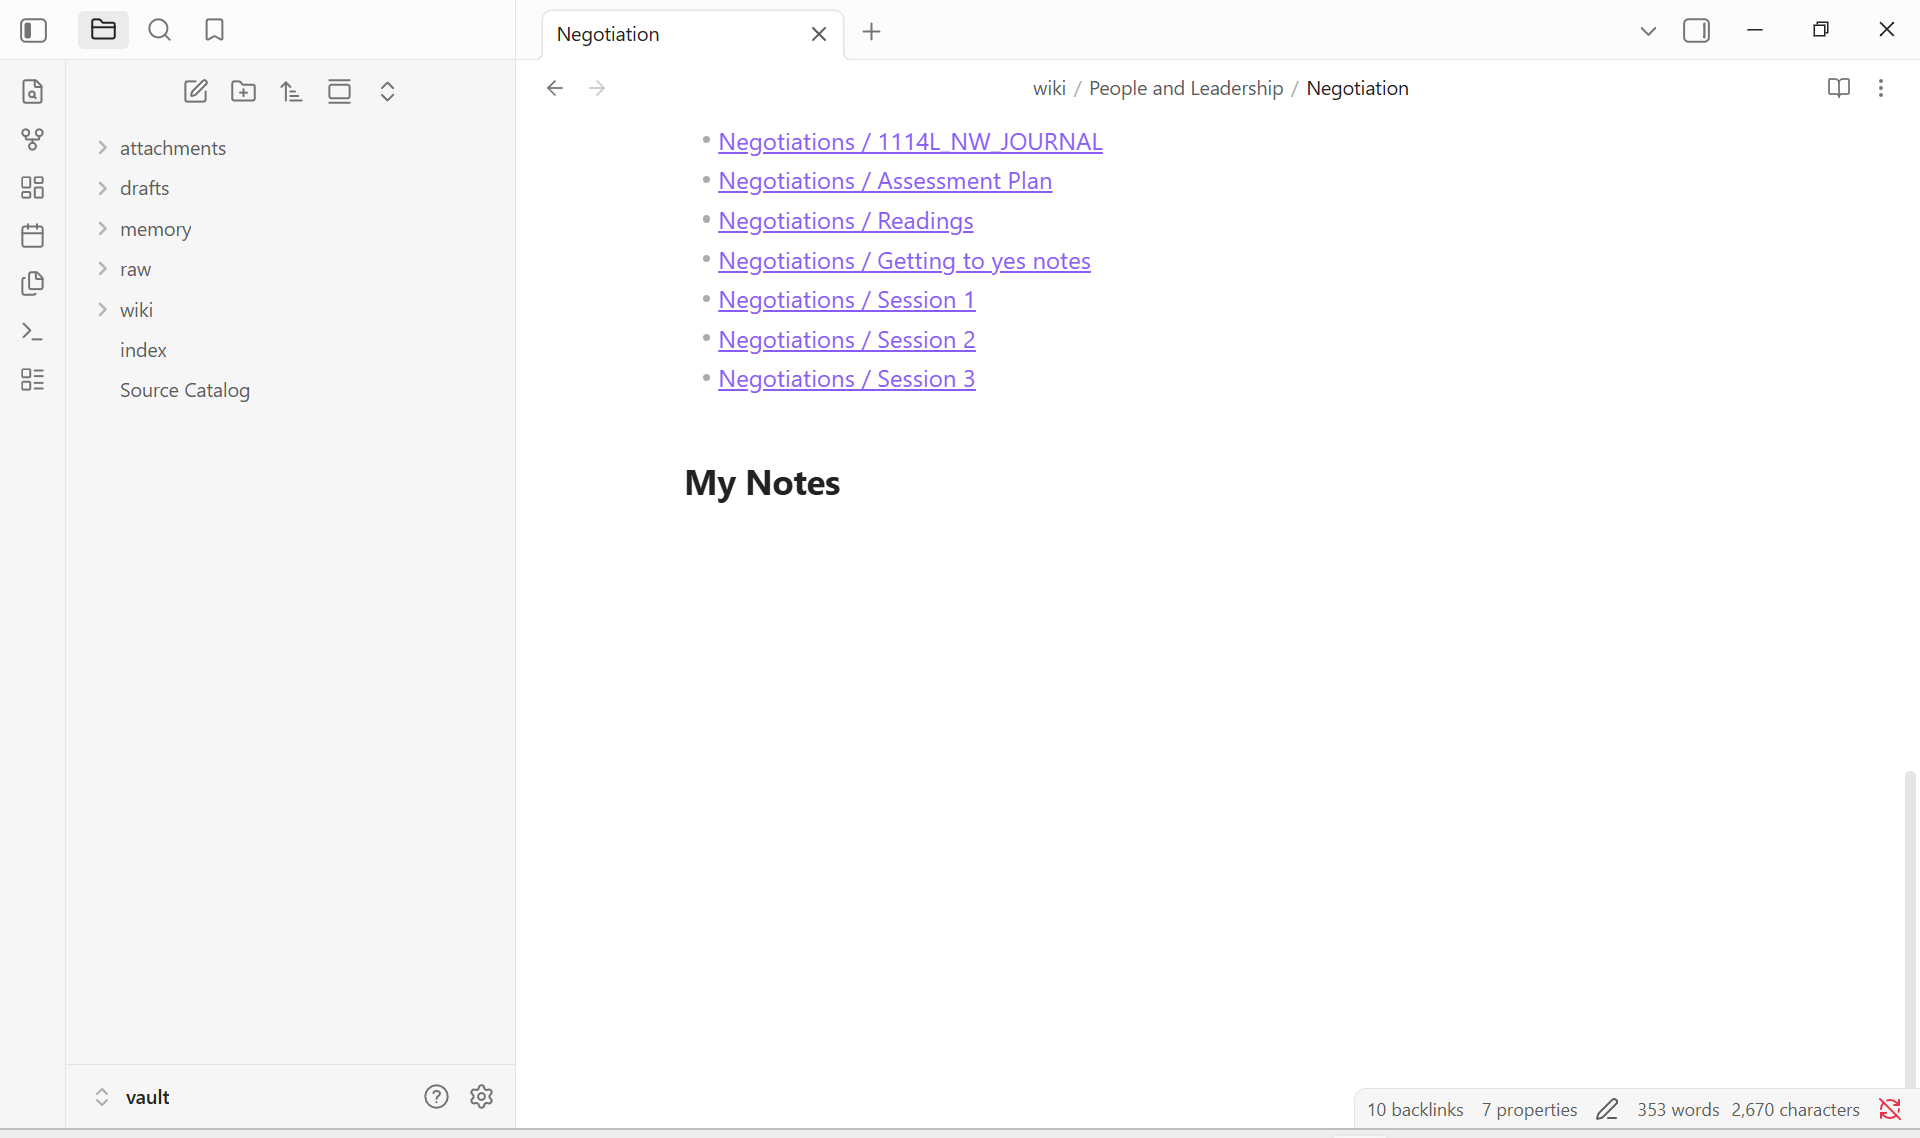
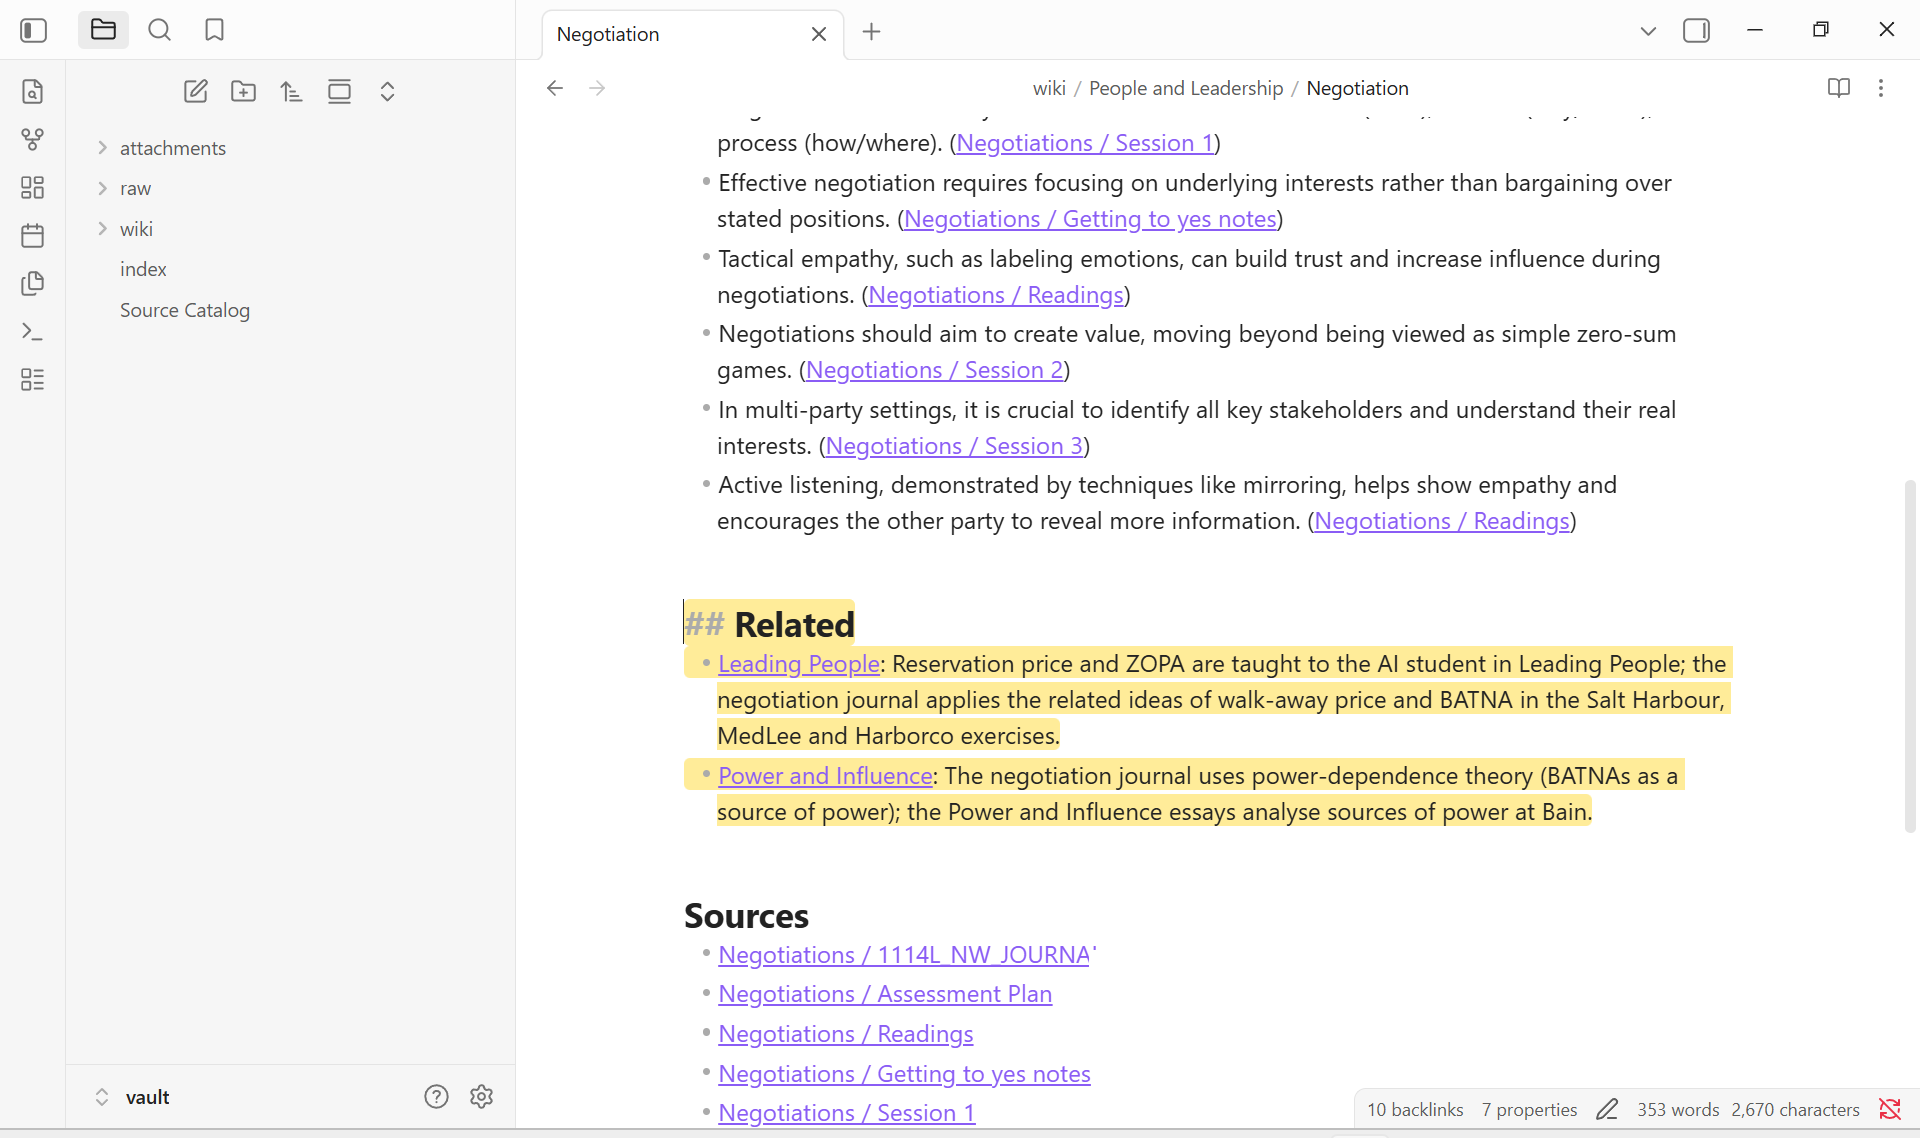
Screenshot of a note's related links and sources; screenshot script uses a heading link instead of clicks

diff --git a/README.md b/README.md
@@ -241,9 +241,11 @@ Other evidence:
 
 ![Negotiation note](evidence/screenshots/1-note-negotiation.png)
 
-The same note scrolled to its source references. Each link opens the original file in `raw/`.
+The same note opened at its Related heading (Obsidian highlights the section the link targets). It shows key ideas each
+linked to the file they came from, the related notes with a reason for each link, and the source references. Each source
+link opens the original file in `raw/`.
 
-![Negotiation note, Sources section](evidence/screenshots/1b-note-related-and-sources.png)
+![Negotiation note: key ideas, related links and sources](evidence/screenshots/1b-note-related-and-sources.png)
 
 **2. The index**, grouped by topic with a one-line description per note.
 
@@ -257,8 +259,7 @@ The same graph with the filter panel collapsed, so all 21 note labels are visibl
 
 ![Graph view, all notes](evidence/screenshots/3b-graph-all-notes.png)
 
-Not shown in a screenshot: the note's Related section (it sits between Key ideas and Sources), and a click-through from a note
-to a source file. Both can be checked by opening the vault.
+Not shown in a screenshot: a click-through from a note to a source file. It can be checked by opening the vault.
 
 ## 6. Reflection: failures and limitations
 
